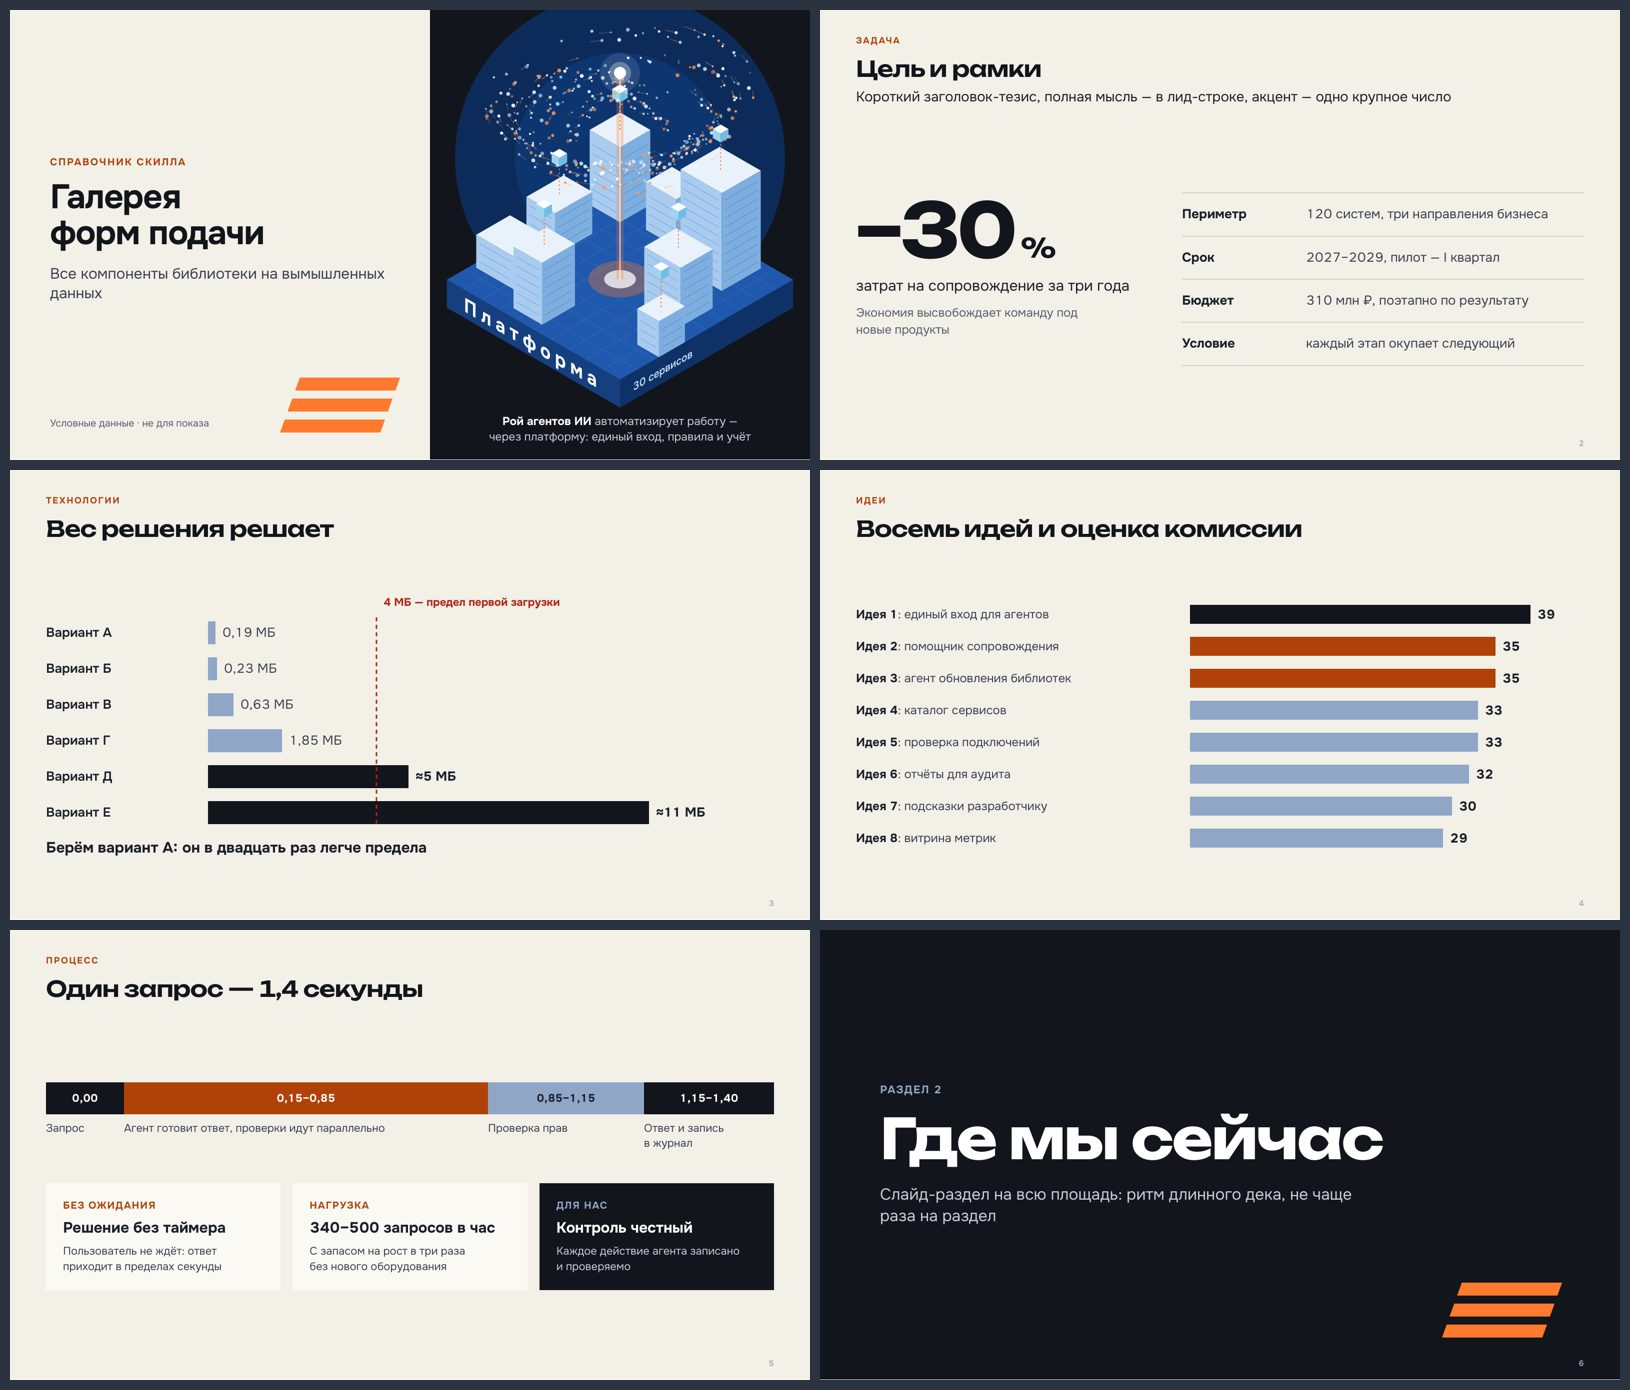
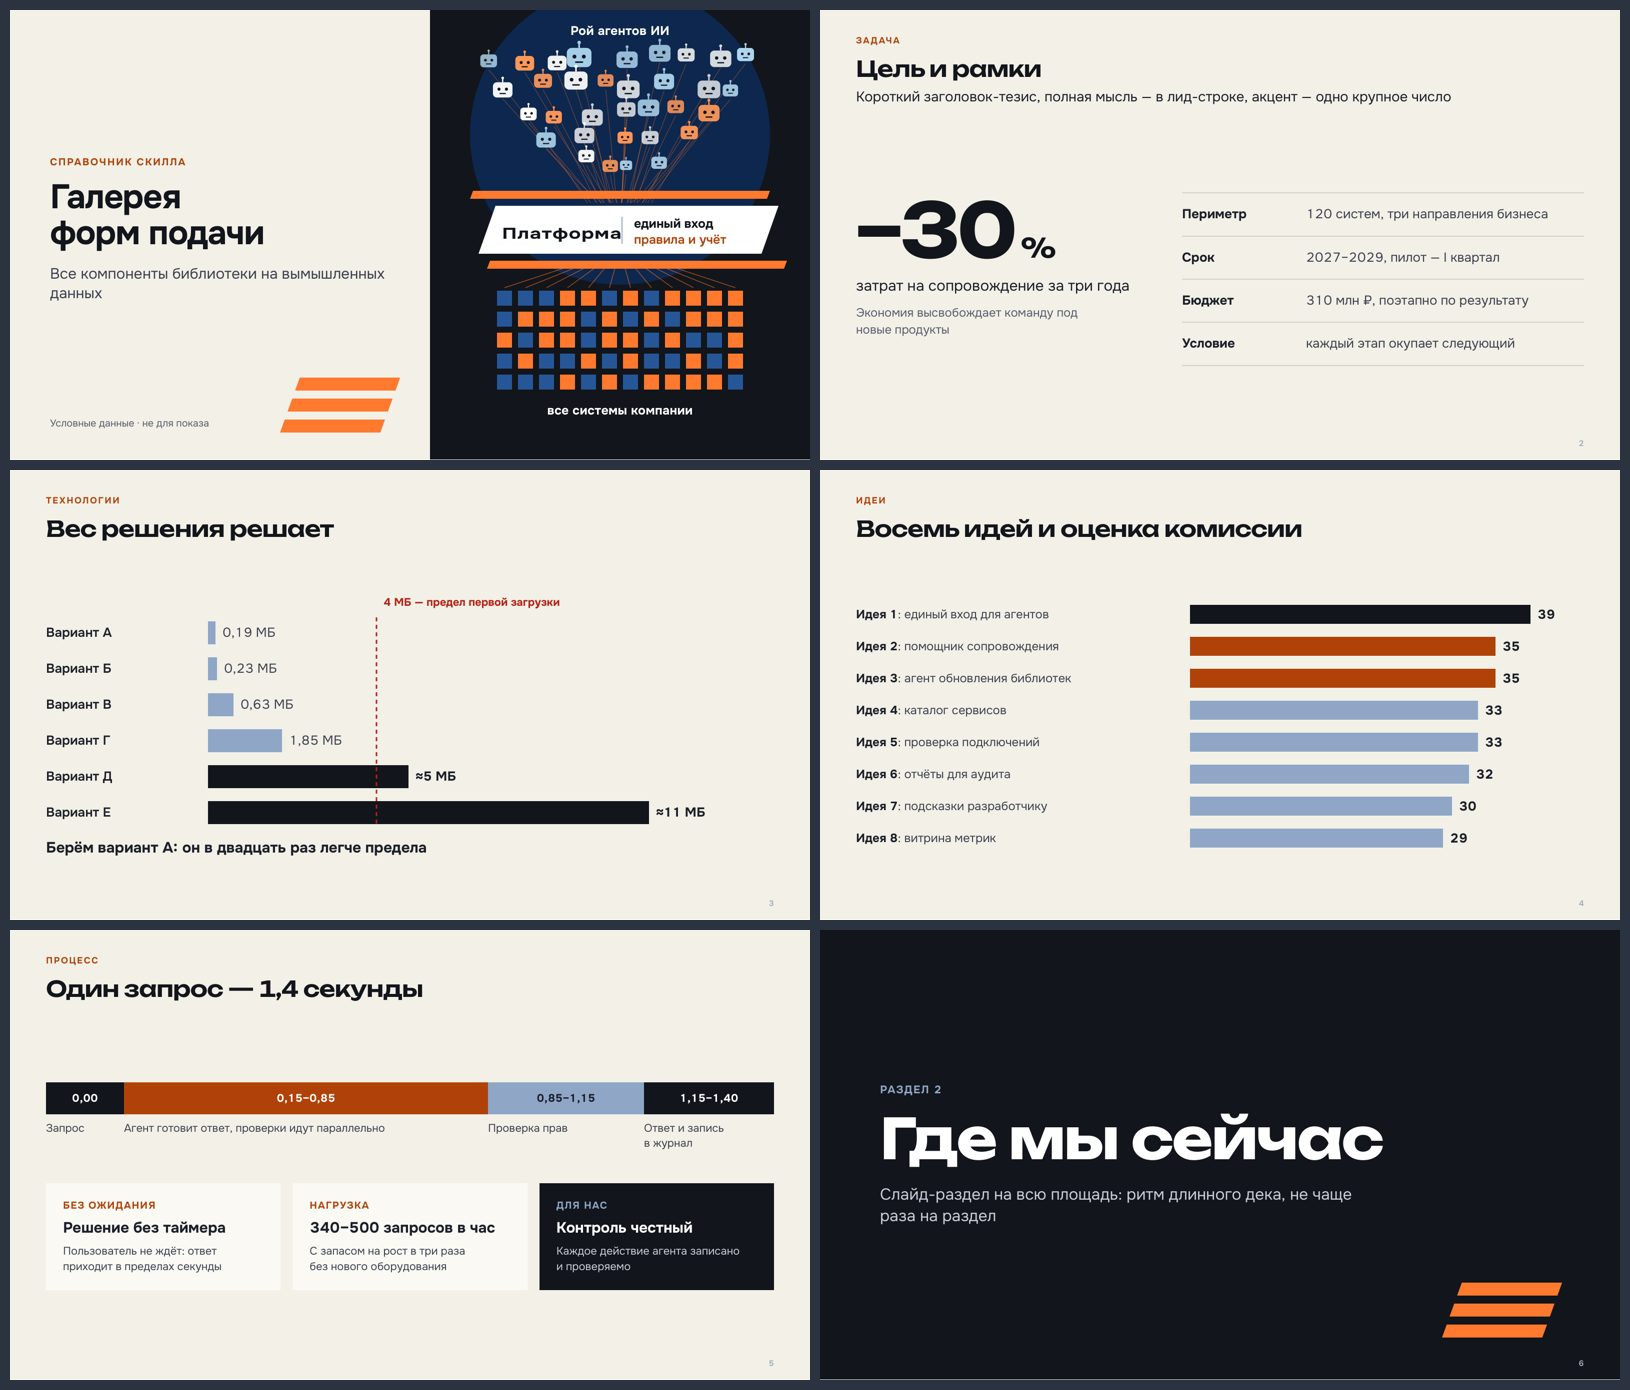
Обложка по умолчанию — плоский поток swarm_to_bank
Изометрический «город» с роем точек руководство назвало непонятным; принят поток, который читается
сверху вниз: рой агентов → полоса единого входа → сетка систем. Изометрия оставлена вариантом
только после упрощения. Обновлены правила, дизайн, журнал опыта, пример в SKILL.md и превью.

Changed region(s): [[0.2761, 0.0, 0.4908, 0.3403]]

diff --git a/skills/agamora-presentations/examples/gallery.py b/skills/agamora-presentations/examples/gallery.py
@@ -30,7 +30,7 @@ os.makedirs(OUT, exist_ok=True)
 
 F = []
 F.append(cover_slide("Галерея<br>форм подачи", "Справочник скилла", "Все компоненты библиотеки на вымышленных данных",
-                     "Условные данные · не для показа", bank_swarm()))
+                     "Условные данные · не для показа", swarm_to_bank()))
 F.append(page("Задача", "Цель и рамки",
               A.hero_number("−30", "%", "затрат на сопровождение за три года", "Экономия высвобождает команду под новые продукты",
                             [("Периметр", "120 систем, три направления бизнеса"), ("Срок", "2027–2029, пилот — I квартал"),
@@ -103,8 +103,8 @@ F.append(page("Готовность", "Процесс строками: сего
 F.append(page("Готовность", "Дни против часов на одной шкале",
               C.days_vs_hours([("book", "Изучение"), ("users", "Согласование"), ("plug", "Подключение"), ("check", "Проверка"), ("file", "Протоколы")],
                               tobe_text="агент находит сервис, подключает и готовит протоколы — человек принимает", hand_note="вместо дней")))
-F.append(cover_slide("Вариант<br>обложки-потока", "Справочник скилла", "Обложка-поток swarm_to_bank()",
-                     "Условные данные · не для показа", swarm_to_bank()))
+F.append(cover_slide("Вариант:<br>изометрия", "Справочник скилла", "bank_swarm() — только упростив до 3–4 крупных элементов",
+                     "Условные данные · не для показа", bank_swarm()))
 F.append(page("Готовность", "Колонки ответственности, своя — выделена",
               L.columns_highlight([("Команда А", ["Единый вход", "Каталог сервисов", "Доступ без заявок"]), ("Интеграция", ["Шлюз агентов", "Шина событий"]), ("Безопасность", ["Аутентификация агентов", "Права доступа"]),
                                    ("Платформа", ["Правила", "Аудит действий", "Контроль отклонений"])], "Платформа", "Распределение — проект")))

diff --git a/skills/agamora-presentations/scripts/deckkit/cover_iso.py b/skills/agamora-presentations/scripts/deckkit/cover_iso.py
@@ -3,7 +3,9 @@
 
 Иллюстрация — одна фраза смысла, прочитанная за три секунды: основание-платформа, корпуса систем,
 над ними рой агентов, подключённых только через единый вход. Все надписи — параметры.
-Уроки из отзывов: «звезда» из подписанных узлов вокруг центра выглядит «детским садом»; выборка части
+Осторожно: изометрический «город» с роем точек руководство назвало «вообще не понятным» — для обложки
+по умолчанию берите плоский поток cover_flow.swarm_to_bank(); изометрию — только упростив до 3–4 крупных
+элементов. Уроки из отзывов: «звезда» из подписанных узлов вокруг центра выглядит «детским садом»; выборка части
 элементов при заявке «все» — ошибка; пейзажи и «закаты» — не в тему. Иллюстрация — только по смыслу материала."""
 import math
 import random

diff --git a/skills/agamora-presentations/scripts/deckkit/cover_flow.py b/skills/agamora-presentations/scripts/deckkit/cover_flow.py
@@ -1,5 +1,6 @@
 # -*- coding: utf-8 -*-
-"""Плоская обложка-поток swarm_to_bank(): читается сверху вниз одной фразой —
+"""Обложка по умолчанию — плоский поток swarm_to_bank(), принятый после трёх отклонённых вариантов.
+Читается сверху вниз одной фразой —
 «рой агентов» → полоса платформы (единый вход, правила и учёт) → сетка систем.
 
 Один ключевой смысл, три-четыре крупных элемента, подписи крупные. Случайная подсветка сетки задаётся

diff --git a/skills/agamora-presentations/references/lessons.md b/skills/agamora-presentations/references/lessons.md
@@ -62,6 +62,9 @@
     («шевроны некрасивые»); «было → стало» — AS IS / TO BE с явной стрелкой; иконки — фирменные и по делу;
     рукописные пометки — «прикольно, можно расширить». Обложка-«звезда» из восьми подписанных узлов —
     «детский сад, к тому же не все» → объёмная иллюстрация одного смысла. Итог: «остальное хорошо, молодец».
+11. **Обложка, последний круг** — смысл «рой агентов автоматизирует компанию через платформу»:
+    изометрический «город» с роем точек — «вообще не понятно» → плоская схема, которая читается сверху
+    вниз: рой узнаваемых значков-агентов → фирменная полоса «единый вход, правила и учёт» → сетка систем.
 
 ## Что из этого следует для любого нового дека
 

diff --git a/skills/agamora-presentations/SKILL.md b/skills/agamora-presentations/SKILL.md
@@ -85,12 +85,13 @@ from deckkit.primitives import big, hand
 from deckkit.canvas import Canvas, chain
 from deckkit import accents as A, charts as C, schemes as S, layouts as L
 from deckkit.gantt import gantt
-from deckkit.cover_iso import cover_slide, bank_swarm
+from deckkit.cover_iso import cover_slide
+from deckkit.cover_flow import swarm_to_bank
 
 EFFECT = [310, 420, 560, 700, 820]                # млн ₽ по годам — единственный источник чисел
 YEARS = ["2027", "2028", "2029", "2030", "2031"]
 
-F = [cover_slide("Название<br>в две строки", "Метка · дата", "Зачем и как", "Для кого · дата", bank_swarm())]
+F = [cover_slide("Название<br>в две строки", "Метка · дата", "Зачем и как", "Для кого · дата", swarm_to_bank())]
 F.append(page("Задача", "Цель и рамки",
               A.hero_number("−30", "%", "затрат на сопровождение за три года", rows=[("Периметр", "120 систем"),
                             ("Срок", "2027–2029"), ("Бюджет", "310 млн ₽ поэтапно")]),

diff --git a/skills/agamora-presentations/references/rules.md b/skills/agamora-presentations/references/rules.md
@@ -317,7 +317,9 @@ PPTX и расчёте. Числа — константами в одном ге
 (`cover_slide`).
 
 **9.2. Иллюстрация обложки** — по одной фразе смысла (например, «рой агентов → единый вход платформы →
-системы компании»), читается за три секунды (`bank_swarm`, `swarm_to_bank`).
+системы компании»), читается сверху вниз за три секунды (`swarm_to_bank`). *Почему:* «звезда» из
+подписанных узлов — «детский сад», изометрический «город» с роем точек — «вообще не понятно»; принят
+плоский поток из трёх уровней.
 
 **9.3. Первый слайд короткой версии — «крючок» для бизнеса:** заголовок-выгода («Сделать больше при
 меньшем бюджете»), 2–3 боли в условиях сокращённого бюджета, одно большое число эффекта и простой
